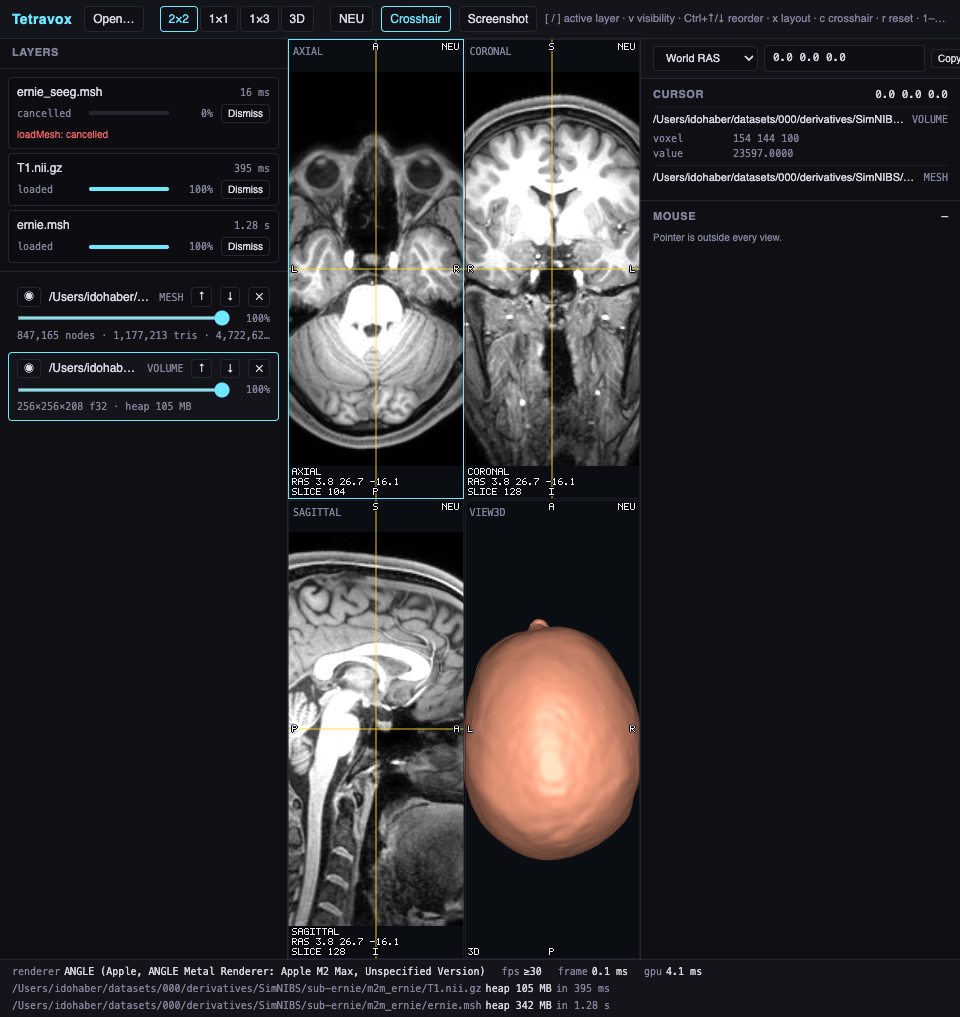
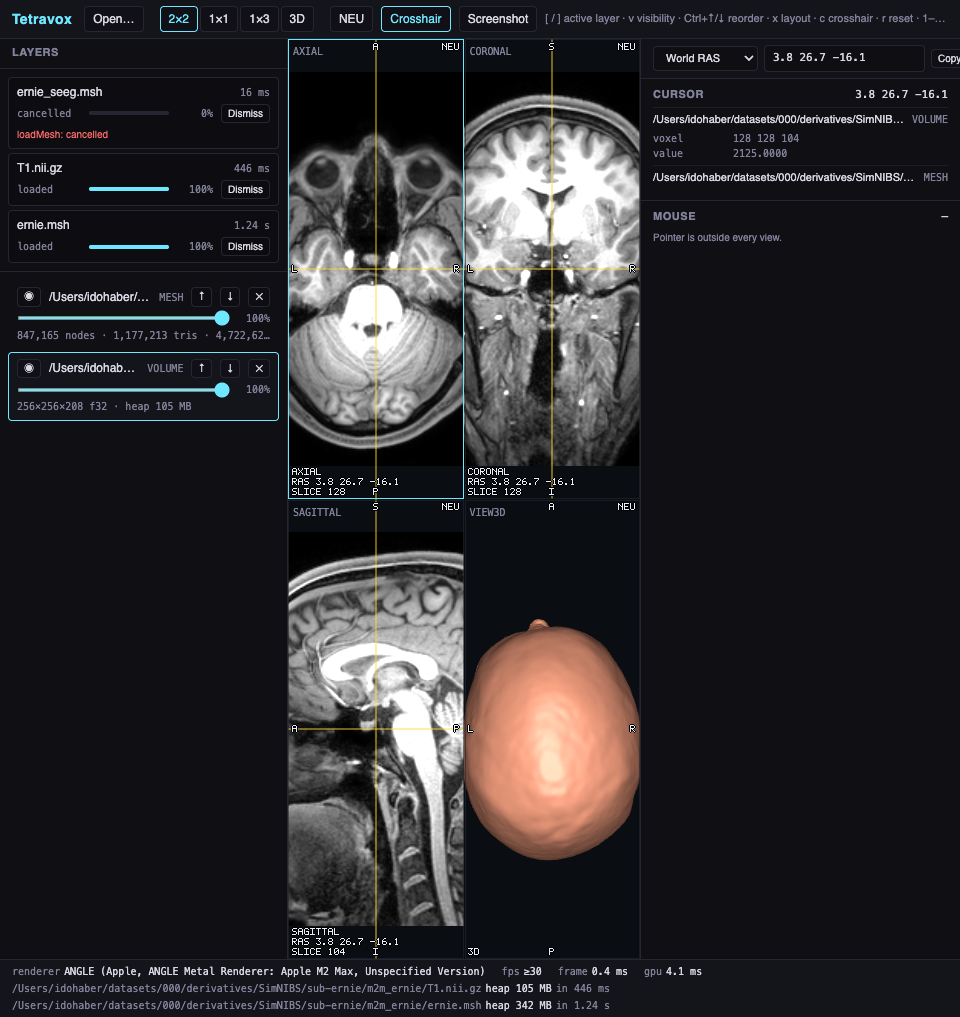
fix(app): the gate spec launches its project's target, and asserts §8's readout
`beforeAll` hardcoded `launchApp('dev')`, so the `packaged` project launched the
dev build instead of the electron-builder artefact and never self-skipped: three
tests reported green under `[packaged]` with nothing packaged, and its benchmark
lines were the dev target measured twice. `packagedUnavailable()` — which every
other app spec already used — now gates it.

Adds the app-visible half of the auto-centre fix: the coordinate bar and the
Cursor block are asserted against `scene.cursor` on the DOM, not through the
store alone.

`docs/screenshots/phase1/app-shell-t1-and-ernie.png` regenerated. Visual change:
the coordinate bar reads `3.8 26.7 -16.1` instead of `0.0 0.0 0.0` and CURSOR
reads `voxel 128 128 104 / value 2125.0` instead of the value at world (0,0,0);
the coronal pane is mirrored (its edge letters now read L|R like the axial pane
above it) and the sagittal pane is mirrored (A|P, anterior to screen-left); the
corner blocks read SLICE 128 / 128 / 104 instead of 104 / 128 / 128.

diff --git a/packages/app/e2e/phase1-gate.spec.ts b/packages/app/e2e/phase1-gate.spec.ts
@@ -19,7 +19,8 @@ import { mkdirSync } from 'node:fs';
 import { join, resolve } from 'node:path';
 import { expect, test } from '@playwright/test';
 import type { ElectronApplication, Page } from '@playwright/test';
-import { APP_ROOT, launchApp } from './fixtures';
+import { APP_ROOT, launchApp, packagedUnavailable } from './fixtures';
+import type { LaunchTarget } from './fixtures';
 
 const ROOT = process.env.TETRAVOX_TESTDATA ?? '';
 const ERNIE_SEEG = join(ROOT, 'm2m_ernie', 'ernie_seeg.msh');
@@ -33,8 +34,14 @@ test.describe('Phase-1 gate item 1 — progress and cancel on the 492 MB mesh', 
   test.skip(ROOT === '', 'TETRAVOX_TESTDATA is unset');
   test.describe.configure({ mode: 'serial' });
 
-  test.beforeAll(async () => {
-    app = await launchApp('dev', { search: 'engine=real' });
+  test.beforeAll(async ({}, workerInfo) => {
+    // §12.1 has two projects and the project name IS the launch target. Hardcoding `'dev'` here
+    // made all three tests report as passing under `[packaged]` with no artefact in the tree, and
+    // turned the `[packaged]` benchmark lines into the dev target measured a second time.
+    const target = workerInfo.project.name as LaunchTarget;
+    const blocked = target === 'packaged' ? packagedUnavailable() : null;
+    test.skip(blocked !== null, blocked ?? '');
+    app = await launchApp(target, { search: 'engine=real' });
     page = await app.firstWindow();
     await app.evaluate(({ BrowserWindow }) => {
       BrowserWindow.getAllWindows()[0]?.setContentSize(1400, 900);
@@ -363,5 +370,39 @@ test.describe('Phase-1 gate item 1 — progress and cancel on the 492 MB mesh', 
       });
       await page.screenshot({ path: join(out, 'app-shell-t1-and-ernie.png') });
     }
+  });
+
+  test('§8: the coordinate bar and Cursor block describe the point the crosshairs do', async () => {
+    // The panes read `scene.cursor`; §8's readout is driven by `EngineEvents.cursor` alone. When
+    // the engine's auto-centre moved the cursor without emitting, every pane annotated the bbox
+    // centre while this bar read `0.0 0.0 0.0` and the Cursor block reported a genuine intensity
+    // from 33 mm away. This is that, asserted on the DOM a user actually reads.
+    const seen = await page.evaluate(() => {
+      const tv = window.__tetravox;
+      const engine = tv?.engine as unknown as {
+        scene: { cursor: [number, number, number] };
+      } | null;
+      if (engine == null || tv?.store == null) throw new Error('no engine');
+      const fmt = (v: readonly number[]): string =>
+        v.map((c) => (c === 0 ? 0 : c).toFixed(1).replace(/^-0\.0$/, '0.0')).join(' ');
+      const bar = document.querySelector<HTMLInputElement>('[data-testid="coord-input"]');
+      const ras = document.querySelector('[data-testid="info-cursor-ras"]');
+      return {
+        sceneCursor: [...engine.scene.cursor],
+        storeCursor: [...tv.store.getState().cursor],
+        expected: fmt(engine.scene.cursor),
+        barText: bar?.value ?? null,
+        rasText: ras?.textContent?.trim() ?? null,
+        probeWorld: tv.store.getState().cursorProbe?.world ?? null,
+      };
+    });
+
+    expect(seen.sceneCursor, 'the auto-centre must have moved the cursor').not.toEqual([0, 0, 0]);
+    expect(seen.storeCursor, 'the store follows the engine').toEqual(seen.sceneCursor);
+    expect(seen.barText, 'the coordinate bar shows the cursor, not the origin').toBe(seen.expected);
+    expect(seen.rasText, 'and so does the Cursor block').toBe(seen.expected);
+    expect(seen.probeWorld, 'the probed values belong to that same point').toEqual(
+      seen.sceneCursor
+    );
   });
 });

diff --git a/docs/DECISIONS.md b/docs/DECISIONS.md
@@ -1177,3 +1177,10 @@ Each entry below names the problem, the fix, and the evidence.
   falls back to software and the R16 test skips with its reason, which is an honestly empty leg
   rather than a missing one. **Evidence:** `[chromium-angle] @angle gate 6: the R16 branch … (614 ms)`
   on `ANGLE (Apple, ANGLE Metal Renderer: Apple M2 Max)`.
+- 2026-08-27 — **The app's gate spec launches the project's own target.** `packages/app/e2e/phase1-gate.spec.ts`
+  hardcoded `launchApp('dev')` in `beforeAll`, so under the `packaged` project it launched the dev
+  build and never self-skipped: three tests reported green under `[packaged]` with no artefact in the
+  tree, and the `[packaged]` benchmark lines were the dev target measured a second time.
+  `e2e/fixtures.ts::packagedUnavailable()` exists precisely to prevent that and every other app spec
+  already used it. The same spec now also asserts §8's readout on the DOM — the coordinate bar and
+  the `Cursor` block against `scene.cursor` — which is the app-visible half of the auto-centre bug.
